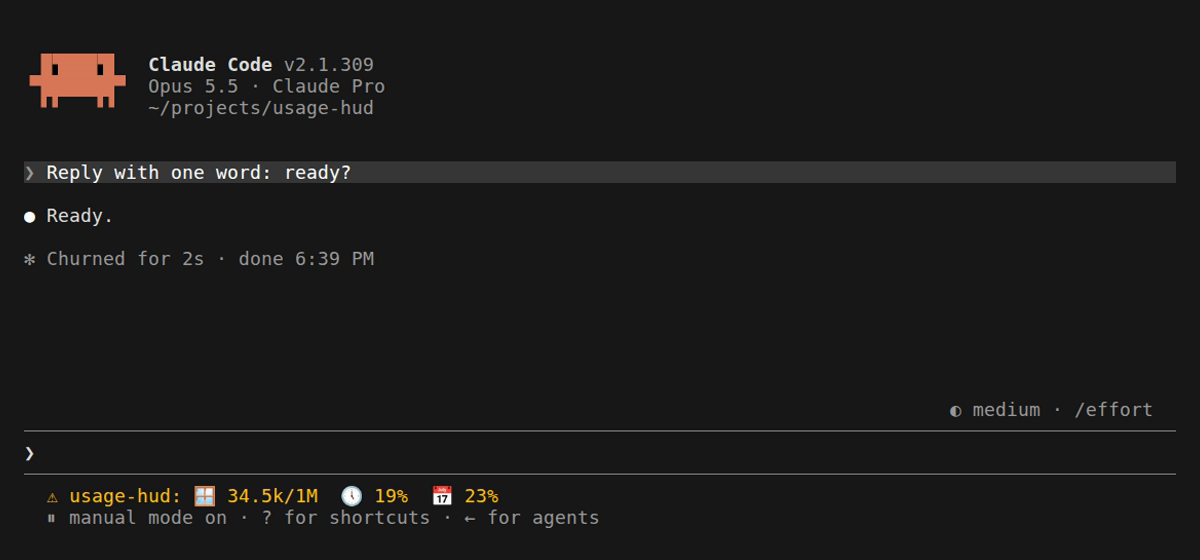
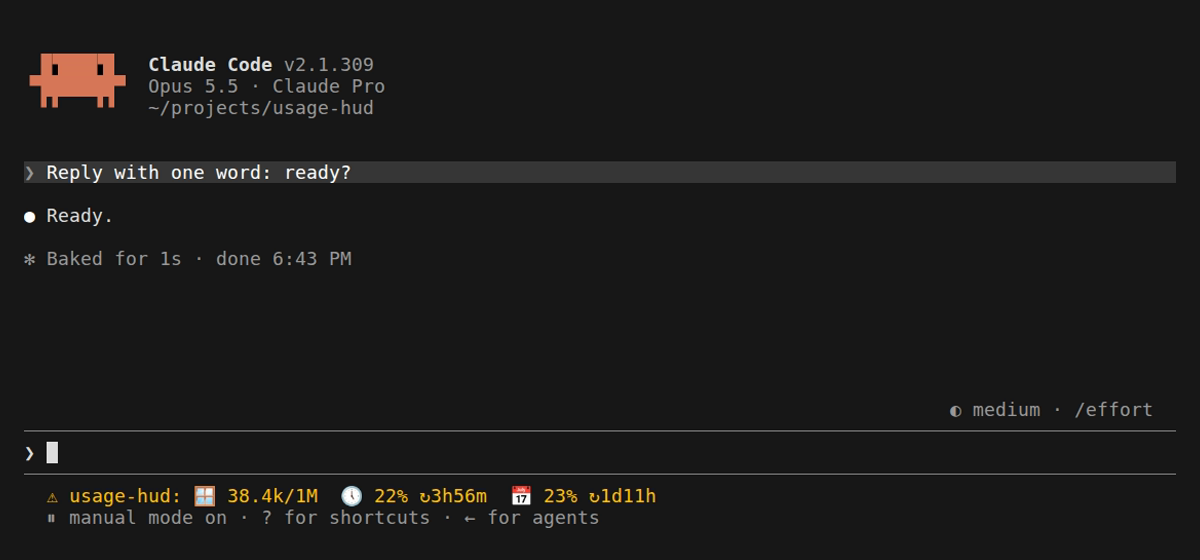
docs: describe the reset countdown and re-capture the screenshot

diff --git a/AGENTS.md b/AGENTS.md
@@ -4,7 +4,7 @@ Instructions for AI coding agents (Claude Code, Codex, and others) working in th
 
 ## What this project is
 
-usage-hud shows how much of your Claude usage you have left, at a glance, in the Claude Code status line. The line has icons and no words: `🪟 45.2k/1M  🕔 23%  📅 41%`. That is the context window's fill over its size, the 5-hour session window, and the weekly window. A `🎁 Oct 30` with the expiry date is added when a usage-limit reset is known to be available.
+usage-hud shows how much of your Claude usage you have left, at a glance, in the Claude Code status line. The line has icons and no words: `🪟 45.2k/1M  🕔 23% ↻2h13m  📅 41% ↻4d21h`. That is the context window's fill over its size, then the 5-hour session window and the weekly window, each with the time left until it resets. A `🎁 Oct 30` with the expiry date is added when a usage-limit reset is known to be available.
 
 Claude Code is the first tool it supports, as a mod (a Claude Code plugin with a hooks module). The repository root is the plugin (`.claude-plugin/plugin.json`, `hooks/`) and also its own marketplace (`.claude-plugin/marketplace.json`, with `source: "./"`). Other tools can come later, so the usage model is kept apart from every tool's API.
 
@@ -17,7 +17,7 @@ src/infrastructure/<tool>/  ──▶  src/core/application/  ──▶  src/cor
    (Claude Code mod)               (use case, ports)          (entities, value objects, rules)
 ```
 
-- `src/core/domain/`: the model. `TokenCount`, `ContextWindow`, `UsageLimit` (the `session` and `weekly` windows), `ResetOffer`, the `UsageSnapshot` aggregate, and `StatusLine`, which turns a snapshot into the icon line. It imports nothing outside `domain/`.
+- `src/core/domain/`: the model. `TokenCount`, `ContextWindow`, `UsageLimit` (the `session` and `weekly` windows), `Countdown` (the time to a window's reset), `ResetOffer`, the `UsageSnapshot` aggregate, and `StatusLine`, which turns a snapshot into the icon line. It imports nothing outside `domain/`.
 - `src/core/application/`: the `ShowUsage` use case, the `UsageReading` input (plain data that `snapshotOf` validates into a snapshot), and the ports in `ports/`: `UsageSource`, `Clock`, `StatusDisplay`. It imports only from `domain/` and `application/`.
 - `src/core/index.ts`: the core's public surface. Infrastructure imports from here, never from deeper files.
 - `src/infrastructure/claude-code/`: the Claude Code mod. `register.ts` is the composition root and the only file that touches the engine's `$`. It answers the three ports with `$.session.usage()`, `$.clock.now()` and `$.ui.status()`. `session-usage.ts` maps Claude Code's figures to a `UsageReading` and is free of `$`.
@@ -33,7 +33,7 @@ Rules that keep it that way:
 
 - Context window: `$.session.usage().context`: `tokens` (absent until the first response of the window) and `window`.
 - 5-hour and weekly windows: `.rateLimits[]` with `kind` `five_hour` and `seven_day`, `percentUsed`, and `resetsAt`. The list is empty off a subscription, so the 🕔 and 📅 icons are hidden there. Other kinds (`seven_day_opus`, a gateway's `spend_limit`) are ignored.
-- Updates: `session.measure` pushes the figures after each turn. A 60-second `$.clock.every` judges the line again, so a window whose `resetsAt` has passed reads 0%.
+- Updates: `session.measure` pushes the figures after each turn. A 60-second `$.clock.every` judges the line again, so the `↻` countdowns tick and a window whose `resetsAt` has passed reads 0%, with no countdown until the next reading.
 - Reset offers (🎁): as of Claude Code 2.1.309, a mod is told of none. The engine fetches them from claude.ai with the account's OAuth credentials and shows them only in its own `/limit-reset` notice. Do not work around that by reading credentials, calling private endpoints, running `/limit-reset` (it spends the reset), or scraping `~/.claude.json`. Wire the offer in `session-usage.ts` only once the mod API reports it.
 
 ## Claude Code mod constraints

diff --git a/README.md b/README.md
@@ -6,10 +6,10 @@
 See how much room you have left, without running `/context` or `/usage`. usage-hud is a [Claude Code](https://code.claude.com) plugin (a mod, in Claude Code's terms: a plugin with a hooks module). It pins one line of icons under the prompt:
 
 ```
-🪟 45.2k/1M  🕔 23%  📅 41%
+🪟 45.2k/1M  🕔 23% ↻2h13m  📅 41% ↻4d21h
 ```
 
-![usage-hud in a Claude Code 2.1.309 session: under the prompt, the line reads "usage-hud: 🪟 34.5k/1M 🕔 19% 📅 23%", the context window's fill over its 1M size, then the 5-hour and weekly usage.](docs/statusline.png)
+![usage-hud in a Claude Code 2.1.309 session: under the prompt, the line reads "usage-hud:" then the context window's fill over its 1M size, and the 5-hour and weekly usage with the time left until each resets.](docs/statusline.png)
 
 Claude Code draws each plugin's status entry with the plugin's name and its notice marker in front (`⚠ usage-hud:`). That framing is the engine's, and a mod cannot change it.
 
@@ -18,12 +18,13 @@ Claude Code draws each plugin's status entry with the plugin's name and its noti
 | 🪟   | The context window: tokens in use over the window's size (`200k`, `1M`). `—` before the first response.   |
 | 🕔   | The current 5-hour session window, as a percentage used. It drops to 0% once the window resets.           |
 | 📅   | This week's window, as a percentage used.                                                                 |
+| ↻    | After a window's percentage: the time left until it resets (`2h13m`, `45m`, `4d21h`).                     |
 | 🎁   | A usage-limit reset you can use, with the date it expires. Shown only when the reset is known; see below. |
 
 ## Features
 
 - **Icons, no labels.** The line stays short enough to sit beside Claude Code's own notices.
-- **Always current.** It updates after every turn, from the figures Claude Code pushes, and re-checks once a minute, so a window that has reset reads 0% without waiting for the next prompt.
+- **Always current.** It updates after every turn, from the figures Claude Code pushes, and re-checks once a minute, so the countdowns tick and a window that has reset reads 0% without waiting for the next prompt.
 - **Honest about what it doesn't know.** A figure Claude Code does not report is left out, never shown as zero. With an API key instead of a subscription there are no 5-hour or weekly windows, so only 🪟 shows.
 - **Never shows full too early.** 99.6% reads 99%, and 100% means the limit is reached.
 - **Costs nothing.** It reads figures Claude Code already holds. It makes no request and spends no tokens.
